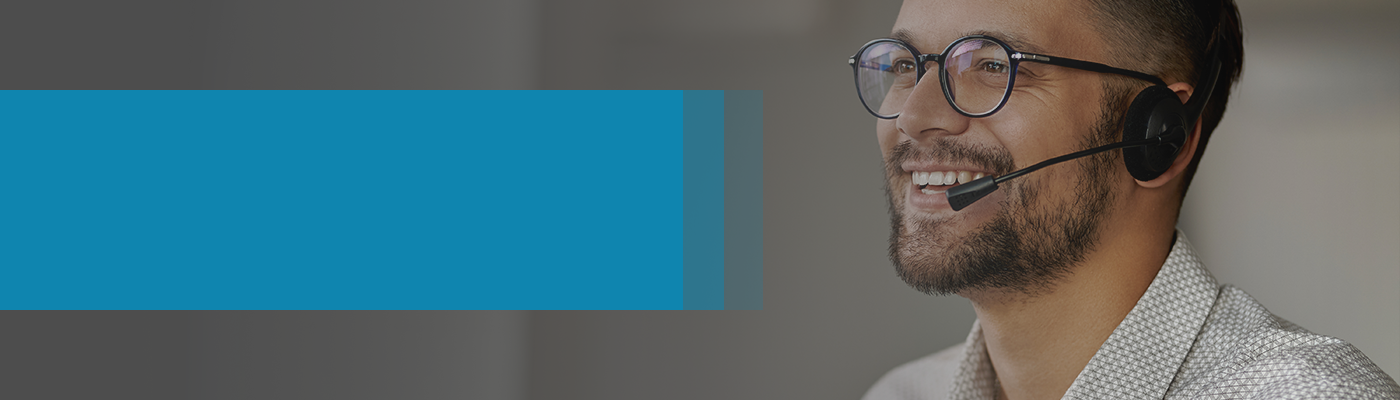
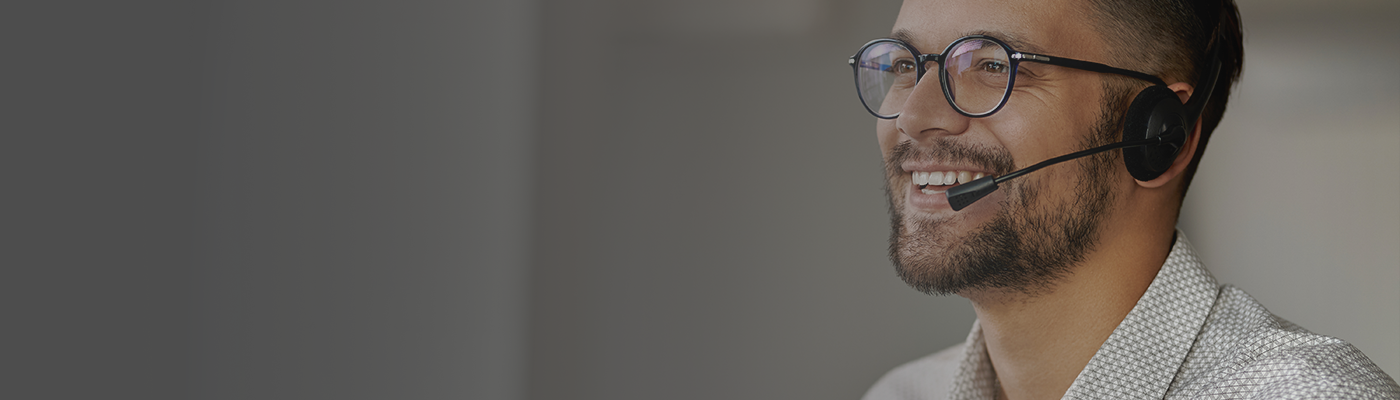
edit

Changed region(s): [[0.0, 0.21, 0.5221, 0.78]]

diff --git a/css/style.css b/css/style.css
@@ -1008,7 +1008,7 @@ html[dir="rtl"] .open-search {
     margin-top: 30px;
   }
   .about-us-head {
-    font-size: 20px;
+    font-size: 24px;
     text-align: center;
     position: absolute;
     top: 0;
@@ -1063,7 +1063,7 @@ html[dir="rtl"] .open-search {
   height: 366px;
 }
 .for-scale{
-  width: 765.5px;
+  width: unset;
   overflow: hidden;
 }
 .for-scale:hover .vision{
@@ -1376,7 +1376,7 @@ width: 100%;
   display: grid;
   grid-template-columns: repeat(3, 1fr);
   grid-gap: 30px;
-  margin-bottom: 33px;
+  margin-bottom: 30px;
 
 }
 
@@ -1471,8 +1471,8 @@ transition: 0.5s;
     padding: 60px 0 !important;
   }
   .contact-section p{
-    font-size: 24px !important;
-    text-align: center !important;
+    font-size: 20px !important;
+    text-align: start !important;
   }
  
   
@@ -1505,18 +1505,56 @@ transition: 0.5s;
   background-image: url(../images/contact-bg.png);
   background-repeat: no-repeat;
   background-size: cover;
-  padding: 130px 0;
+  padding: 88px 0 90px;
+  position: relative;
+  min-height: 400px;
+}
+.contact-section .more-btn{
+  position: absolute;
+  margin-inline-start: calc((100vw - 1170px) / 2);
+ margin: 0;
 }
 html[dir="ltr"] .contact-section{
   background-image: url(../images/contact-bg-2.png);
+  background-position: center;
 }
+.blue-bg{
+  background: var(--main-color);
+  position: absolute;
+  padding-inline-start: calc((100vw - 1170px) / 2);
+  padding-top: 40px;
+  padding-bottom: 40px;
+  padding-inline-end: 60px;
+  min-height: 220px;
+  border-left: 40px solid #2e748c;
+}
+.blue-bg::after{
+  content: "";
+  width: 40px;
+  position: absolute;
+  top: 0;
+  bottom: 0;
+  background-color: rgba(15, 133, 175,0.2);
+  left: -10.9%;
+}
+html[dir="ltr"] .blue-bg{
+  border-left: 0;
+  border-right: 40px solid #2e748c;
+  min-height: 280px;
+  
+}
+html[dir="ltr"] .blue-bg::after{
+ left:105.3%;
+}
+
 .contact-section p{
   color: #fff;
   text-align: start;
   font-size: 28px;
   font-weight: bold;
-  max-width: 480px;
+  max-width: 490px;
   margin-bottom: 25px;
+ 
 }
 /*                              contact-section                    */
 
@@ -1642,6 +1680,7 @@ footer {
   border-color: rgba(255,255,255,0.149);
   margin-bottom: 57px;
   grid-gap: 68px;
+  align-items: baseline;
 
 }
 .footer-block{
@@ -2138,6 +2177,7 @@ html[dir="rtl"] .footer-accordion.active:after {
   .footer-first-record{
     grid-template-columns: repeat(1,1fr);
     grid-gap: 40px;
+    align-items: flex-start;
   }
 }
 @media (min-width: 1200px) {
@@ -2200,6 +2240,10 @@ html[dir="rtl"] .footer-accordion.active:after {
   transform: rotate(-45deg);
 }
 @media (max-width: 1188px) {
+  .blue-bg{
+    padding-inline-start: 20px;
+    padding-inline-end: 20px;
+  }
   .nav-header .big-menu{
     margin-inline-start: 0;
   }
@@ -2214,21 +2258,51 @@ html[dir="rtl"] .footer-accordion.active:after {
   .features-pargh{
     font-size: 16px;
   }
+  .footer-block{
+    display: flex;
+    justify-content: center;
+    flex-wrap: wrap;
+    flex-direction: column;
+  }
+  .footer-block i{
+    margin-bottom: 20px;
+  }
+  .text p{
+    font-size: 18px;
+  }
+  .text a{
+    font-size: 18px;
+  }
+  .section-head{
+    font-size: 24px;
+  }
   .features-head{
     font-size: 20px;
   }
   .re-title{
-    font-size: 20px;
-    text-align: center;
+    font-size: 24px;
+   margin-top: 0;
+   margin-bottom: 10px;
+  }
+  .blue-bg{
+    max-width: 50%;
   }
   .rec-1 span{
-    font-size: 16px;
-    text-align: center;
-    margin-bottom: 25px;
+    font-size: 14px;
+  
+    margin-bottom: 10px;
   }
   .more-btn{
-    margin: 0 auto 15px;
+    margin: 0 ;
+    height: 35px;
   }
+  .services{
+    padding: 50px 0 55px;
+  }
+  .project-section{
+    padding: 60px 0 30px;
+  }
+  
 }
 
 @media (max-width: 991px) {
@@ -2242,6 +2316,37 @@ html[dir="rtl"] .footer-accordion.active:after {
   }
   header{
     top:0;
+  }
+  .contact-section{
+    min-height: auto;
+    background-position: center;
+  }
+  .blue-bg{
+   
+    position: relative;
+    padding-inline-start: 20px;
+    padding-inline-end: 20px;
+    padding-top: 20px;
+    padding-bottom: 20px;
+   
+    min-height: auto !important;
+    border-left: 20px solid #2e748c;
+    display: flex;
+    flex-direction: column;
+    max-width: 50%;
+  }
+  .contact-section p{
+    
+    font-size: 20px;
+   
+    max-width: 100%;
+    margin-bottom: 11px;
+  }
+  .blue-bg::after{
+    width: 20px;
+  }
+  .contact-section .more-btn{
+    position: relative;
   }
   /* .close-search {
     z-index: 99;
@@ -2304,10 +2409,11 @@ html[dir="rtl"] .footer-accordion.active:after {
 }
 
 @media only screen and (max-width: 994px)  and (min-width: 768px)  {
-     
-.footer-first-record{
-  grid-template-columns: repeat(2,1fr);
-}
+  .footer-first-record{
+    /* grid-template-columns: repeat(2,1fr); */
+    align-items: baseline;
+  }
+
 .img-block{
   height: 139px;
 }
@@ -2317,4 +2423,7 @@ html[dir="rtl"] .footer-accordion.active:after {
   .for-scale{
     width: 100%;
   }
+}
+@media (max-width: 1550px) {
+ 
 }

diff --git a/index.html b/index.html
@@ -623,10 +623,13 @@
 
     <!-- contact section -->
     <div class="contact-section">
-      <div class="container">
-        <p>نسعد بالتواصل معكم وتقديم خدماتنا لكم والرد على استفساراتكم</p>
-        <a href="#" class="more-btn">عرض المزيد </a>
-      </div>
+     <div class="blue-bg">
+      <p>نسعد بالتواصل معكم وتقديم خدماتنا لكم والرد على استفساراتكم</p>
+      <a href="#" class="more-btn">عرض المزيد </a>
+
+     </div>
+       
+      
     </div>
     <!-- end contact section -->
 

diff --git a/index-en.html b/index-en.html
@@ -619,10 +619,13 @@
 
     <!-- contact section -->
     <div class="contact-section">
-      <div class="container">
-        <p>We are pleased to communicate with you, provide our services to you, and respond to your inquiries</p>
-        <a href="#" class="more-btn">show more</a>
-      </div>
+    <div class="blue-bg">
+      <p>We are pleased to communicate with you, provide our services to you, and respond to your inquiries</p>
+      <a href="#" class="more-btn">show more</a>
+
+    </div>
+     
+   
     </div>
     <!-- end contact section -->
 
